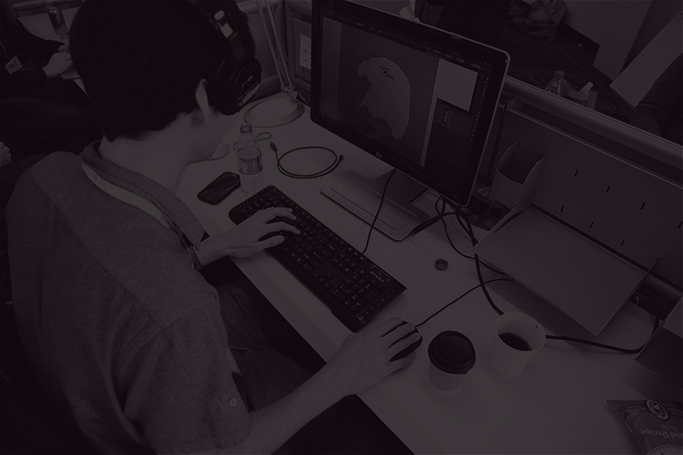
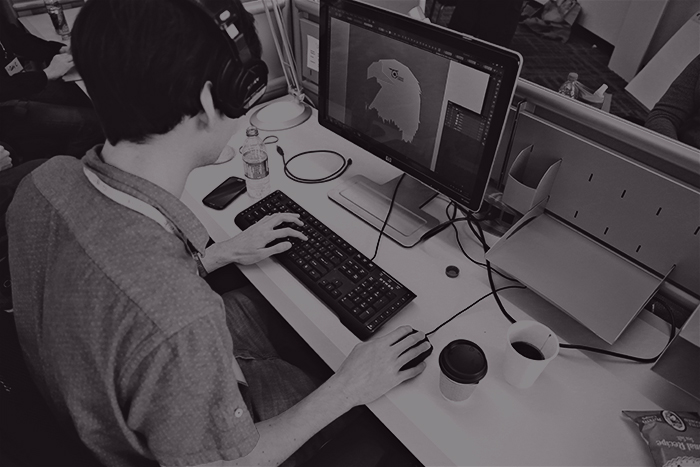
Sharpened images a bit , added transitions

diff --git a/index.html b/index.html
@@ -13,7 +13,33 @@
 <body id="base">
     <div class="row columns">
 
-        <div class="col-5 col-m-5 col-l-5 blocks" id="fifablock">
+        <div class="col-5 col-m-5 col-l-5 blocks" id="crosswordblock">
+            <a href="#crosswordblock" class="namebanner">CROSSWORDS : SOLVE THE Loreum IPSUM</a>
+            <div class="contentbox">
+                <div class="topbar row">
+                    <div class="col-6 col-m-6 col-l-6"></div>
+                    <div class="col-6 col-m-6 col-l-6">
+                        <a href="#fifablock"> FIFA MANAGER</a>
+                        <a href="#cryptoblock"> CRYPTOTIME</a>
+                        <a href="#crosswordblock"> CROSSWORDS</a>
+                        <a href="#decodeblock"> DECODE++</a>
+                        <a href="#designblock"> DESIGNHOUR</a>
+                        <a href="#base"> Back to events</a>
+                    </div>
+                </div>
+                <div class="wall row"><span class="col-12 col-m-12 col-l-12">CROSSWORDS</span>
+                </div>
+                <div class="informbox row">
+                    <div class="col-4 col-m-4 col-l-4 insideblock">
+                        <div class="boxinside"></div>
+                    </div>
+                    <div class="col-4 col-m-4 col-l-4 insideblock">Now that we know who you are, I know who I am. I'm not a mistake!<br><br> It all makes sense! In a comic, you know how you can tell who the arch-villain's going to be? He's the exact opposite of the hero. And most times they're friends, like you and me!<br><br> I should've known way back when... You know why, David? Because of the kids. They called me Mr Glass.</div>
+                    <div class="col-4 col-m-4 col-l-4 insideblock">We might put a link / button / suscribe or something here.</div>
+                </div>
+            </div>
+        </div>
+
+        <div class="col-3 col-m-3 col-l-3 blocks" id="fifablock">
             <a class="namebanner" href="#fifablock">FIFA MANAGER - Hit the NETS</a>
 
             <div class="contentbox">
@@ -67,32 +93,6 @@
             </div>
         </div>
 
-        <div class="col-3 col-m-3 col-l-3 blocks" id="crosswordblock">
-            <a href="#crosswordblock" class="namebanner">CROSSWORDS : SOLVE THE Loreum IPSUM</a>
-            <div class="contentbox">
-                <div class="topbar row">
-                    <div class="col-6 col-m-6 col-l-6"></div>
-                    <div class="col-6 col-m-6 col-l-6">
-                        <a href="#fifablock"> FIFA MANAGER</a>
-                        <a href="#cryptoblock"> CRYPTOTIME</a>
-                        <a href="#crosswordblock"> CROSSWORDS</a>
-                        <a href="#decodeblock"> DECODE++</a>
-                        <a href="#designblock"> DESIGNHOUR</a>
-                        <a href="#base"> Back to events</a>
-                    </div>
-                </div>
-                <div class="wall row"><span class="col-12 col-m-12 col-l-12">CROSSWORDS</span>
-                </div>
-                <div class="informbox row">
-                    <div class="col-4 col-m-4 col-l-4 insideblock">
-                        <div class="boxinside"></div>
-                    </div>
-                    <div class="col-4 col-m-4 col-l-4 insideblock">Now that we know who you are, I know who I am. I'm not a mistake!<br><br> It all makes sense! In a comic, you know how you can tell who the arch-villain's going to be? He's the exact opposite of the hero. And most times they're friends, like you and me!<br><br> I should've known way back when... You know why, David? Because of the kids. They called me Mr Glass.</div>
-                    <div class="col-4 col-m-4 col-l-4 insideblock">We might put a link / button / suscribe or something here.</div>
-                </div>
-            </div>
-        </div>
-
     </div>
 
 
@@ -124,31 +124,6 @@
             </div>
         </div>
 
-        <div class="col-5 col-m-5 col-l-5 blocks" id="decodeblock">
-            <a href="#decodeblock" class="namebanner">DECODE++ : Enter into realms of Programming World</a>
-            <div class="contentbox">
-                <div class="topbar row">
-                    <div class="col-6 col-m-6 col-l-6"></div>
-                    <div class="col-6 col-m-6 col-l-6">
-                        <a href="#fifablock"> FIFA MANAGER</a>
-                        <a href="#cryptoblock"> CRYPTOTIME</a>
-                        <a href="#crosswordblock"> CROSSWORDS</a>
-                        <a href="#decodeblock"> DECODE++</a>
-                        <a href="#designblock"> DESIGNHOUR</a>
-                        <a href="#base"> Back to events</a>
-                    </div>
-                </div>
-                <div class="wall row"><span class="col-12 col-m-12 col-l-12">DECODE++</span>
-                </div>
-                <div class="informbox row">
-                    <div class="col-4 col-m-4 col-l-4 insideblock">
-                        <div class="boxinside"></div>
-                    </div>
-                    <div class="col-4 col-m-4 col-l-4 insideblock">Now that we know who you are, I know who I am. I'm not a mistake!<br><br> It all makes sense! In a comic, you know how you can tell who the arch-villain's going to be? He's the exact opposite of the hero. And most times they're friends, like you and me!<br><br> I should've known way back when... You know why, David? Because of the kids. They called me Mr Glass.</div>
-                    <div class="col-4 col-m-4 col-l-4 insideblock">We might put a link / button / suscribe or something here.</div>
-                </div>
-            </div>
-        </div>
 
         <div class="col-5 col-m-5 col-l-5 blocks" id="designblock">
             <a href="#designblock" class="namebanner">DESIGNHOUR - Make this world a better place</a>
@@ -165,6 +140,32 @@
                     </div>
                 </div>
                 <div class="wall row"><span class="col-12 col-m-12 col-l-12">DESIGNHOUR</span>
+                </div>
+                <div class="informbox row">
+                    <div class="col-4 col-m-4 col-l-4 insideblock">
+                        <div class="boxinside"></div>
+                    </div>
+                    <div class="col-4 col-m-4 col-l-4 insideblock">Now that we know who you are, I know who I am. I'm not a mistake!<br><br> It all makes sense! In a comic, you know how you can tell who the arch-villain's going to be? He's the exact opposite of the hero. And most times they're friends, like you and me!<br><br> I should've known way back when... You know why, David? Because of the kids. They called me Mr Glass.</div>
+                    <div class="col-4 col-m-4 col-l-4 insideblock">We might put a link / button / suscribe or something here.</div>
+                </div>
+            </div>
+        </div>
+
+        <div class="col-5 col-m-5 col-l-5 blocks" id="decodeblock">
+            <a href="#decodeblock" class="namebanner">DECODE++ : Enter into realms of Programming World</a>
+            <div class="contentbox">
+                <div class="topbar row">
+                    <div class="col-6 col-m-6 col-l-6"></div>
+                    <div class="col-6 col-m-6 col-l-6">
+                        <a href="#fifablock"> FIFA MANAGER</a>
+                        <a href="#cryptoblock"> CRYPTOTIME</a>
+                        <a href="#crosswordblock"> CROSSWORDS</a>
+                        <a href="#decodeblock"> DECODE++</a>
+                        <a href="#designblock"> DESIGNHOUR</a>
+                        <a href="#base"> Back to events</a>
+                    </div>
+                </div>
+                <div class="wall row"><span class="col-12 col-m-12 col-l-12">DECODE++</span>
                 </div>
                 <div class="informbox row">
                     <div class="col-4 col-m-4 col-l-4 insideblock">

diff --git a/css/main.css b/css/main.css
@@ -25,9 +25,7 @@ html {
     height: 33.33%;
     border: 1px solid #0B0408;
     position: relative;
-    transition: opacity 800ms ease-out ;
-    -webkit-transition : opacity 800ms ease-out ;
-    -moz-transition: opacity 800ms ease-out ;
+
 }
 
 .blocks:hover {
@@ -36,60 +34,112 @@ html {
 
 
 .blocks:hover .namebanner {
-    opacity: 0.4;
-    transition: opacity 400ms ease-in 100ms;
-    -webkit-transition :opacity 800ms ease-out ;
-    -moz-transition :opacity 800ms ease-out ;
+    opacity: 0.8;
+    transition: opacity 800ms ease-out ;
+    -webkit-transition : opacity 800ms ease-out;
+    -moz-transition: opacity 800ms ease-out ;
 }
 
 #decodeblock {
-    background: #0B0408 url('../img/dis1optim.jpg') center center no-repeat;
+    background: #0B0408 url('../img/dis1optim.jpg') top center no-repeat;
     background-size: cover;
     -moz-background-size: cover;
+    transition: opacity 800ms ease-out , background 800ms;
+    -webkit-transition : opacity 800ms ease-out, background 800ms ;
+    -moz-transition: opacity 800ms ease-out, background 800ms ;
+}
+
+#decodeblock:hover{
+    background: #0B0408 url('../img/dis1optim.jpg') center center no-repeat;
 }
 
 #designblock {
-    background: #0B0408 url('../img/design1optim.jpg') center center no-repeat;
+    background: #0B0408 url('../img/design1optim.jpg') top center no-repeat;
     background-size: cover;
     -moz-background-size: cover;
+    transition: opacity 800ms ease-out , background 800ms;
+    -webkit-transition : opacity 800ms ease-out, background 800ms ;
+    -moz-transition: opacity 800ms ease-out, background 800ms ;
+}
+#designblock:hover{
+    background: #0B0408 url('../img/design1optim.jpg') center center no-repeat;
 }
 
 #fifablock {
-    background: #0B0408 url('../img/fifa1optim.jpg') center center no-repeat;
+    background: #0B0408 url('../img/fifa1optim.jpg') top center no-repeat;
     background-size: cover;
     -moz-background-size: cover;
+    transition: opacity 800ms ease-out , background 800ms;
+    -webkit-transition : opacity 800ms ease-out, background 800ms ;
+    -moz-transition: opacity 800ms ease-out, background 800ms ;
+}
+#fifablock:hover{
+    background: #0B0408 url('../img/fifa1optim.jpg') center center no-repeat;
 }
 
 #cryptoblock {
-    background: #0B0408 url('../img/cryp1optim.jpg') center center no-repeat;
+    background: #0B0408 url('../img/cryp1optim.jpg') top center no-repeat;
     background-size: cover;
     -moz-background-size: cover;
+    transition: opacity 800ms ease-out , background 800ms;
+    -webkit-transition : opacity 800ms ease-out, background 800ms ;
+    -moz-transition: opacity 800ms ease-out, background 800ms ;
 
+}
+#cryptoblock:hover{
+    background: #0B0408 url('../img/cryp1optim.jpg') center center no-repeat;
 }
 
 #crosswordblock {
-    background: #0B0408 url('../img/dis1optim.jpg') center center no-repeat;
+    background: #0B0408 url('../img/crosswords1optim.jpg') top center no-repeat;
     background-size: cover;
     -moz-background-size: cover;
+    transition: opacity 800ms ease-out , background 800ms;
+    -webkit-transition : opacity 800ms ease-out, background 800ms ;
+    -moz-transition: opacity 800ms ease-out, background 800ms ;
+}
+
+#crosswordblock:hover{
+    background: #0B0408 url('../img/crosswords1optim.jpg') center center no-repeat;
 }
 
 #sscbsblock {
-    background: #0B0408 url('../img/sscbs1optim.jpg') center center no-repeat;
+    background: #0B0408 url('../img/sscbs1optim.jpg') top center no-repeat;
     background-size: cover;
     -moz-background-size: cover;
+    transition: opacity 800ms ease-out , background 800ms;
+    -webkit-transition : opacity 800ms ease-out, background 800ms ;
+    -moz-transition: opacity 800ms ease-out, background 800ms ;
 
+}
+#sscbsblock:hover{
+    background: #0B0408 url('../img/sscbs1optim.jpg') center center no-repeat;
 }
 
 #sponsorblock {
-    background: #0B0408 url('../img/sponsors.jpg') center center no-repeat;
+    background: #0B0408 url('../img/sponsors.jpg') top center no-repeat;
     background-size: cover;
     -moz-background-size: cover;
+    transition: opacity 800ms ease-out , background 800ms;
+    -webkit-transition : opacity 800ms ease-out, background 800ms ;
+    -moz-transition: opacity 800ms ease-out, background 800ms ;
+}
+
+#sponsorblock:hover{
+    background: #0B0408 url('../img/sponsors.jpg') center center no-repeat;
 }
 
 #eventblock {
-    background: #0B0408 url('../img/dis1optim.jpg') center center no-repeat;
+    background: #0B0408 url('../img/teamkronos1optim.jpg') top center no-repeat;
     background-size: cover;
     -moz-background-size: cover;
+    transition: opacity 800ms ease-out , background 800ms;
+    -webkit-transition : opacity 800ms ease-out, background 800ms ;
+    -moz-transition: opacity 800ms ease-out, background 800ms ;
+}
+
+#eventblock:hover{
+    background: #0B0408 url('../img/teamkronos1optim.jpg') center center no-repeat;
 }
 /* Stack rules */
 /* other elements */
@@ -193,25 +243,6 @@ html {
     font-size: 1em;
 
 }
-/* Hotfix #1 : improves media queries where div were stacked */
-
-@media screen and (min-width: 48em) {
-    body,
-    html {
-        height: 100%;
-        overflow-y:hidden;
-    }
-    .columns {
-        height: 33.3333%;
-    }
-    .blocks {
-        height: 100%;
-        opacity: 0.25;
-    }
-    .informbox{
-        height: 65%;
-    }
-}
 
 .insideblock {
     height: 100%;
@@ -229,4 +260,24 @@ html {
     height: 100%;
     width: 100%;
     border: 1px solid #c7c7c7;
+}
+
+/* Hotfix #1 : improves media queries where div were stacked */
+
+@media screen and (min-width: 48em) {
+    body,
+    html {
+        height: 100%;
+        overflow-y:hidden;
+    }
+    .columns {
+        height: 33.3333%;
+    }
+    .blocks {
+        height: 100%;
+        opacity: 0.1;
+    }
+    .informbox{
+        height: 65%;
+    }
 }
